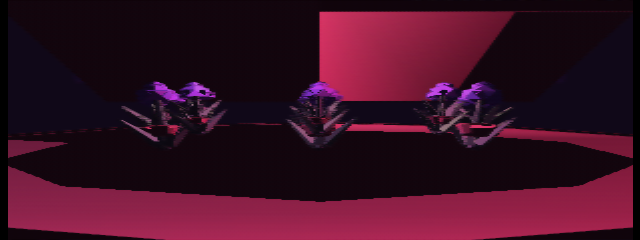
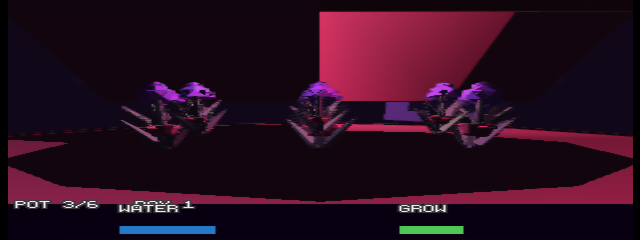
Step 1: selection cursor + HUD
- D-pad/stick cycles selected pot, stick drifts camera a hair
- A waters the selected pot
- HUD: POT n/6 + DAY counter, WATER (blue) / GROW (green) meters,
  pink ready-flag at growth=1, THIRSTY prompt under 25% water
- Selection cursor: bobbing/spinning bright chip over the selected pot
- Matrix tab widened 16->17 slots for the cursor transform
- AUTOTEST flag synthesizes inputs from frame counter (ares JS input
  injection unreliable on libdragon joypad_poll — verified sel cycling
  4->5->0->1 and wsel=0.99 after A press)
- Makefile: EXTRA_CFLAGS now reaches N64_CFLAGS (it silently didn't)

diff --git a/test/shot.js b/test/shot.js
@@ -3,7 +3,7 @@ ares.setHomebrew(true);
 ares.setRenderer("angrylion");
 ares.loadRom(ares.args[0]);
 ares.resume();
-ares.waitFrames(60);
+ares.waitFrames(300);
 var s = ares.screenshot();
 s.save("/home/lex/n64/weedfarmer64/shots/growroom.png");
 console.log("shot ok");

diff --git a/src/main.c b/src/main.c
@@ -25,9 +25,11 @@ int main(void)
     joypad_init();
     rdpq_init();
     t3d_init((T3DInitParams){});
+    rdpq_text_register_font(FONT_BUILTIN_DEBUG_MONO,
+                           rdpq_font_load_builtin(FONT_BUILTIN_DEBUG_MONO));
     T3DViewport viewport = t3d_viewport_create_buffered(FB_COUNT);
 
-    T3DMat4FP *matFP = malloc_uncached(sizeof(T3DMat4FP) * 16 * FB_COUNT);
+    T3DMat4FP *matFP = malloc_uncached(sizeof(T3DMat4FP) * 17 * FB_COUNT);
 
     T3DModel *mPlant = t3d_model_load("rom:/plant.t3dm");
     T3DModel *mPot   = t3d_model_load("rom:/pot.t3dm");
@@ -72,6 +74,11 @@ int main(void)
            mLamp->aabbMin[0], mLamp->aabbMin[1], mLamp->aabbMin[2],
            mLamp->aabbMax[0], mLamp->aabbMax[1], mLamp->aabbMax[2]);
 
+    int sel = 2;             // player-selected pot
+    uint32_t prevDir = 0;    // edge detection for d-pad/stick cycling
+    int day = 1;
+    float dayT = 0.0f;
+
     fm_vec3_t camPos = {{0, 30, 96}};
     fm_vec3_t camTarget = {{0, 10, -6}};
     float t = 0.0f;
@@ -87,13 +94,30 @@ int main(void)
     for (;;) {
         joypad_poll();
         joypad_inputs_t jin = joypad_get_inputs(JOYPAD_PORT_1);
+#ifdef AUTOTEST
+        {   // ares JS input injection is unreliable on libdragon joypad_poll;
+            // synthesize: every 150 frames press d_right, every 200 press A.
+            int f = (int)(t * 60.0f);
+            jin.btn.d_right = (f % 150) < 4;
+            jin.btn.d_left  = false;
+            jin.btn.a       = (f % 200) < 4;
+            jin.stick_x = 0; jin.stick_y = 0;
+        }
+#endif
         frameIdx = (frameIdx + 1) % FB_COUNT;
         t += 0.016f;
 
-        // walk the room a bit with the stick (for feel)
-        camPos.v[0] += jin.stick_x * -0.2f;
-        if (camPos.v[0] > 60) camPos.v[0] = 60;
-        if (camPos.v[0] < -60) camPos.v[0] = -60;
+        // camera drifts a hair with the stick for feel
+        camPos.v[0] += jin.stick_x * -0.04f;
+        if (camPos.v[0] > 30) camPos.v[0] = 30;
+        if (camPos.v[0] < -30) camPos.v[0] = -30;
+
+        // d-pad left/right (or stick edges) cycle the selected pot
+        uint32_t dir = 0;
+        if (jin.btn.d_right || jin.stick_x >  40) dir = 1;
+        if (jin.btn.d_left  || jin.stick_x < -40) dir = 2;
+        if (dir && !(prevDir & dir)) sel = (sel + (dir == 1 ? 1 : 5)) % 6;
+        prevDir = dir;
 
         // plants grow slowly (the hum of the grow-op)
         for (int i = 0; i < 6; i++) {
@@ -103,9 +127,12 @@ int main(void)
             if (pots[i].water < 0.0f) pots[i].water = 0.0f;
             pots[i].rot = sinf(t * 0.8f + i) * 0.05f;  // fan breeze sway
         }
-        // A waters the selected pot — placeholder selection = nearest pot
-        int sel = (int)(t / 4.0f) % 6;
+        // A waters the selected pot
         if (jin.btn.a) pots[sel].water = 1.0f;
+
+        // day cycle: 60 s per day
+        dayT += 0.016f;
+        if (dayT > 60.0f) { dayT = 0.0f; day++; }
 
         t3d_viewport_set_projection(&viewport, T3D_DEG_TO_RAD(65.0f), 5.0f, 300.0f);
         t3d_viewport_look_at(&viewport, &camPos, &camTarget, &(fm_vec3_t){{0, 1, 0}});
@@ -114,13 +141,13 @@ int main(void)
         for (int i = 0; i < 6; i++) {
             float s = 0.035f + pots[i].growth * 0.045f;
             // plant
-            t3d_mat4fp_from_srt_euler(&matFP[mi + 16 * frameIdx],
+            t3d_mat4fp_from_srt_euler(&matFP[mi + 17 * frameIdx],
                 (float[3]){s, s, s},
                 (float[3]){pots[i].rot, pots[i].rot * 1.3f + t * 0.1f, pots[i].rot},
                 (float[3]){pots[i].pos.v[0], pots[i].pos.v[1] + 6.5f, pots[i].pos.v[2]});
             mi++;
             // pot
-            t3d_mat4fp_from_srt_euler(&matFP[mi + 16 * frameIdx],
+            t3d_mat4fp_from_srt_euler(&matFP[mi + 17 * frameIdx],
                 (float[3]){0.16f, 0.16f, 0.16f},
                 (float[3]){0, 0, 0},
                 (float[3]){pots[i].pos.v[0], pots[i].pos.v[1], pots[i].pos.v[2]});
@@ -145,16 +172,16 @@ int main(void)
         t3d_matrix_push_pos(1);
         mi = 0;
         for (int i = 0; i < 6; i++) {
-            t3d_matrix_set(&matFP[mi + 16 * frameIdx], true);
+            t3d_matrix_set(&matFP[mi + 17 * frameIdx], true);
             rspq_block_run(dplPot);
             mi++;
-            t3d_matrix_set(&matFP[mi + 16 * frameIdx], true);
+            t3d_matrix_set(&matFP[mi + 17 * frameIdx], true);
             t3d_model_draw(mPlant);
             mi++;
         }
         // floor: crate box flattened to a slab
         {
-            T3DMat4FP *mfp = &matFP[14 + 16 * frameIdx];
+            T3DMat4FP *mfp = &matFP[14 + 17 * frameIdx];
             t3d_mat4fp_from_srt_euler(mfp,
                 (float[3]){1.6f, 0.015f, 0.9f},
                 (float[3]){0, 0, 0},
@@ -164,7 +191,7 @@ int main(void)
         }
         // back wall
         {
-            T3DMat4FP *mfp = &matFP[15 + 16 * frameIdx];
+            T3DMat4FP *mfp = &matFP[15 + 17 * frameIdx];
             t3d_mat4fp_from_srt_euler(mfp,
                 (float[3]){1.6f, 0.9f, 0.015f},
                 (float[3]){0, 0, 0},
@@ -174,7 +201,7 @@ int main(void)
         }
         // lamp bars over the rows
         for (int i = 0; i < 2; i++) {
-            T3DMat4FP *mfp = &matFP[12 + i + 16 * frameIdx];
+            T3DMat4FP *mfp = &matFP[12 + i + 17 * frameIdx];
             t3d_mat4fp_from_srt_euler(mfp,
                 (float[3]){0.5f, 0.12f, 0.12f},
                 (float[3]){0, 0, 0},
@@ -182,15 +209,51 @@ int main(void)
             t3d_matrix_set(mfp, true);
             rspq_block_run(dplLamp);
         }
+        // selection cursor: bobbing lamp-bar chip over the selected pot
+        {
+            float bob = sinf(t * 4.0f) * 2.0f;
+            T3DMat4FP *mfp = &matFP[16 + 17 * frameIdx];
+            t3d_mat4fp_from_srt_euler(mfp,
+                (float[3]){0.22f, 0.22f, 0.22f},
+                (float[3]){sinf(t * 3.0f) * 0.4f, t * 2.0f, 0},
+                (float[3]){pots[sel].pos.v[0], pots[sel].pos.v[1] + 27.0f + bob,
+                           pots[sel].pos.v[2] + 6.0f});
+            t3d_matrix_set(mfp, true);
+            rspq_block_run(dplLamp);
+        }
         t3d_matrix_pop(1);
+
+        // ---- HUD (2D) ----
+        rdpq_set_mode_standard();
+        // bottom bar backdrop
+        rdpq_mode_combiner(RDPQ_COMBINER_FLAT);
+        rdpq_set_prim_color(RGBA32(12, 6, 22, 220));
+        rdpq_fill_rectangle(0, 204, 320, 240);
+        // water bar
+        rdpq_set_prim_color(RGBA32(40, 120, 200, 255));
+        rdpq_fill_rectangle(60, 226, 60 + (int)(100.0f * pots[sel].water), 234);
+        // growth bar
+        rdpq_set_prim_color(RGBA32(80, 200, 90, 255));
+        rdpq_fill_rectangle(200, 226, 200 + (int)(100.0f * pots[sel].growth), 234);
+        // ready marker
+        if (pots[sel].growth >= 1.0f) {
+            rdpq_set_prim_color(RGBA32(255, 80, 220, 255));
+            rdpq_fill_rectangle(304, 226, 312, 234);
+        }
+        rdpq_text_printf(NULL, FONT_BUILTIN_DEBUG_MONO, 8, 208,
+            "POT %d/6   DAY %d", sel + 1, day);
+        rdpq_text_printf(NULL, FONT_BUILTIN_DEBUG_MONO, 60, 212, "WATER");
+        rdpq_text_printf(NULL, FONT_BUILTIN_DEBUG_MONO, 200, 212, "GROW");
+        if (pots[sel].water < 0.25f)
+            rdpq_text_printf(NULL, FONT_BUILTIN_DEBUG_MONO, 8, 190, "THIRSTY! press A");
 
         rdpq_detach_show();
 
         if ((int)(t * 60) % 180 == 0) {
             static char ln[200];
             snprintf(ln, sizeof ln,
-                "[wf64] t=%d cam=%.0f pots: g0=%.2f w0=%.2f sel=%d",
-                (int)(t * 60), camPos.v[0], pots[0].growth, pots[0].water, sel);
+                "[wf64] t=%d cam=%.0f pots: g0=%.2f w0=%.2f sel=%d wsel=%.2f",
+                (int)(t * 60), camPos.v[0], pots[0].growth, pots[0].water, sel, pots[sel].water);
             debugf("%s\n", ln);
         }
     }
